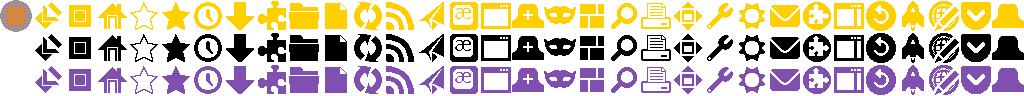
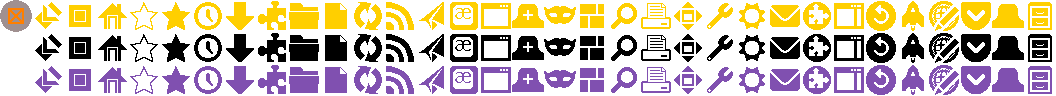
first part of syncing LCARStrek with Firefox 49/50 windows theme changes

diff --git a/LCARStrek/browser/browser.css b/LCARStrek/browser/browser.css
@@ -510,7 +510,7 @@ menuitem.bookmark-item {
           #preferences-button, #privatebrowsing-button, #save-page-button, #add-ons-button,
           #history-panelmenu, #nav-bar-overflow-button, #PanelUI-menu-button, #characterencoding-button,
           #email-link-button, #sidebar-button, #zoom-out-button, #zoom-reset-button, #zoom-in-button, #cut-button,
-          #copy-button, #paste-button, #e10s-button, #panic-button, #webide-button),
+          #copy-button, #paste-button, #e10s-button, #panic-button, #webide-button, #containers-panelmenu),
 #bookmarks-menu-button > .toolbarbutton-menubutton-dropmarker > .dropmarker-icon {
   list-style-image: url("chrome://browser/skin/ToolbarFx.png");
 }
@@ -649,6 +649,14 @@ menuitem.bookmark-item {
 
 #sync-button[cui-areatype="toolbar"]:hover {
   -moz-image-region: rect(18px, 792px, 36px, 774px);
+}
+
+#containers-panelmenu[cui-areatype="toolbar"] {
+  -moz-image-region: rect(0, 810px, 18px, 792px);
+}
+
+#containers-panelmenu[cui-areatype="toolbar"]:hover {
+  -moz-image-region: rect(18px, 810px, 36px, 792px);
 }
 
 #feed-button[cui-areatype="toolbar"] {
@@ -917,14 +925,14 @@ toolbaritem[sdkstylewidget="true"] > toolbarbutton,
           #preferences-button, #privatebrowsing-button, #save-page-button, #add-ons-button,
           #history-panelmenu, #nav-bar-overflow-button, #PanelUI-menu-button, #characterencoding-button,
           #email-link-button, #sidebar-button, #zoom-out-button, #zoom-reset-button, #zoom-in-button, #cut-button,
-          #copy-button, #paste-button, #e10s-button, #panic-button, #webide-button)[cui-areatype="menu-panel"],
+          #copy-button, #paste-button, #e10s-button, #panic-button, #webide-button, #containers-panelmenu)[cui-areatype="menu-panel"],
 toolbarpaletteitem[place="palette"] > :-moz-any(#back-button, #forward-button, #home-button, #print-button, #downloads-button, #bookmarks-menu-button,
           #new-tab-button, #new-window-button, #fullscreen-button, #sync-button, #feed-button, #tabview-button,
           #social-share-button, #open-file-button, #find-button, #developer-button,
           #preferences-button, #privatebrowsing-button, #save-page-button, #add-ons-button,
           #history-panelmenu, #nav-bar-overflow-button, #PanelUI-menu-button, #characterencoding-button,
           #email-link-button, #sidebar-button, #zoom-out-button, #zoom-reset-button, #zoom-in-button, #cut-button,
-          #copy-button, #paste-button, #e10s-button, #panic-button, #webide-button) {
+          #copy-button, #paste-button, #e10s-button, #panic-button, #webide-button, #containers-panelmenu) {
   list-style-image: var(--menupanel-list-style-image);
 }
 
@@ -1014,6 +1022,17 @@ toolbarpaletteitem[place="palette"] > #sync-button {
 #sync-button[cui-areatype="menu-panel"]:hover,
 toolbarpaletteitem[place="palette"] > #sync-button:hover {
   -moz-image-region: rect(32px, 1024px, 64px, 992px);
+}
+
+#containers-panelmenu[cui-areatype="menu-panel"],
+toolbarpaletteitem[place="palette"] > #containers-panelmenu {
+  -moz-image-region: rect(0px, 1056px, 32px, 1024px);
+}
+
+#containers-panelmenu[cui-areatype="menu-panel"]:hover,
+toolbarpaletteitem[place="palette"] > #containers-panelmenu:hover,
+#containers-panelmenu[cui-areatype="menu-panel"][panel-multiview-anchor=true] {
+  -moz-image-region: rect(32px, 1056px, 64px, 1024px);
 }
 
 #feed-button[cui-areatype="menu-panel"],
@@ -3004,31 +3023,6 @@ richlistitem[selected="true"][current="true"] > .ac-title-box > .ac-result-type-
 }
 
 /* End selected tab */
-
-/* User Context UI - change tab decoration depending on userContextId.
-   Defaults to gray for unknown usercontextids. */
-.tabbrowser-tab[usercontextid] {
-  background-image: linear-gradient(to right, transparent 20%, #A09090 30%, #A09090 70%, transparent 80%);
-  background-size: auto 2px;
-  background-repeat: no-repeat;
-}
-
-/* Personal User Context */
-.tabbrowser-tab[usercontextid="1"] {
-  background-image: linear-gradient(to right, transparent 20%, #9C9CFF 30%, #9C9CFF 70%, transparent 80%);
-}
-/* Work User Context */
-.tabbrowser-tab[usercontextid="2"] {
-  background-image: linear-gradient(to right, transparent 20%, #FF9F00 30%, #FF9F00 70%, transparent 80%);
-}
-/* Banking User Context */
-.tabbrowser-tab[usercontextid="3"] {
-  background-image: linear-gradient(to right, transparent 20%, #008484 30%, #008484 70%, transparent 80%);
-}
-/* Shopping User Context */
-.tabbrowser-tab[usercontextid="4"] {
-  background-image: linear-gradient(to right, transparent 20%, #E7ADE7 30%, #E7ADE7 70%, transparent 80%);
-}
 
 /* Tab pointer-events */
 /*
@@ -6073,77 +6067,3 @@ menugroup > .menuitem-iconic[disabled="true"] > .menu-iconic-left {
   padding: 0;
   overflow: hidden;
 }
-
-/* === BEGIN usercontext.inc.css === */
-
-/* User Context UI browser styles */
-
-#menu_newUserContextTabPersonal {
-  list-style-image: url("chrome://browser/skin/usercontext/personal.svg");
-}
-
-#menu_newUserContextTabWork {
-  list-style-image: url("chrome://browser/skin/usercontext/work.svg");
-}
-
-#menu_newUserContextTabBanking {
-  list-style-image: url("chrome://browser/skin/usercontext/banking.svg");
-}
-
-#menu_newUserContextTabShopping {
-  list-style-image: url("chrome://browser/skin/usercontext/shopping.svg");
-}
-
-/* URL Bar Decoration */
-
-#userContext-indicator {
-  height: 16px;
-  width: 16px;
-}
-
-#userContext-label {
-  margin-inline-end: 3px;
-  color: #A09090;
-}
-
-#userContext-icons:not([usercontextid]) {
-  display: none;
-}
-
-#userContext-icons {
-  -moz-box-align: center;
-}
-
-/* Personal User Context */
-#userContext-icons[usercontextid="1"] > #userContext-label {
-  color: #9C9CFF;
-}
-#userContext-icons[usercontextid="1"] > #userContext-indicator {
-  list-style-image: url("chrome://browser/skin/usercontext/personal.svg");
-}
-
-/* Work User Context */
-#userContext-icons[usercontextid="2"] > #userContext-label {
-  color: #FF9F00;
-}
-#userContext-icons[usercontextid="2"] > #userContext-indicator {
-  list-style-image: url("chrome://browser/skin/usercontext/work.svg");
-}
-
-/* Banking User Context */
-#userContext-icons[usercontextid="3"] > #userContext-label {
-  color: #008484;
-}
-#userContext-icons[usercontextid="3"] > #userContext-indicator {
-  list-style-image: url("chrome://browser/skin/usercontext/banking.svg");
-}
-
-/* Shopping User Context */
-#userContext-icons[usercontextid="4"] > #userContext-label {
-  color: #E7ADE7;
-}
-#userContext-icons[usercontextid="4"] > #userContext-indicator {
-  list-style-image: url("chrome://browser/skin/usercontext/shopping.svg");
-}
-
-/* === END usercontext.inc.css === */

diff --git a/LCARStrek/browser/syncedtabs/sidebar.css b/LCARStrek/browser/syncedtabs/sidebar.css
@@ -91,6 +91,24 @@ body {
   padding-inline-start: 20px;
 }
 
+.item.client.device-image-desktop.selected > .item-title-container > .item-icon-container {
+  background-image: url("chrome://browser/skin/sync-desktopIcon.svg#icon-inverted");
+}
+
+.item.client.device-image-desktop:not(.selected) > .item-title-container > .item-icon-container,
+.item.client.device-image-desktop.selected > .item-title-container > .item-icon-container:-moz-window-inactive {
+  background-image: url("chrome://browser/skin/sync-desktopIcon.svg#icon");
+}
+
+.item.client.device-image-mobile.selected > .item-title-container > .item-icon-container {
+  background-image: url("chrome://browser/skin/sync-mobileIcon.svg#icon-inverted");
+}
+
+.item.client.device-image-mobile:not(.selected) > .item-title-container > .item-icon-container,
+.item.client.device-image-mobile.selected > .item-title-container > .item-icon-container:-moz-window-inactive {
+  background-image: url("chrome://browser/skin/sync-mobileIcon.svg#icon");
+}
+
 .item.tab > .item-title-container > .item-icon-container {
   background-image: url("chrome://mozapps/skin/places/defaultFavicon.png");
 }
@@ -128,6 +146,7 @@ body {
   text-overflow: ellipsis;
   margin: 0px;
   line-height: 1.3;
+  cursor: default;
 }
 
 .item[hidden] {
@@ -313,7 +332,7 @@ html {
   background-repeat: no-repeat;
   background-position: center;
   padding-top: 5px;
-  width: 9px; /* The image's width is 9 pixels */
+  max-width: 9px; /* The image's width is 9 pixels */
   height: 9px;
 }
 

diff --git a/LCARStrek/browser/aboutSyncTabs.css b/LCARStrek/browser/aboutSyncTabs.css
@@ -55,10 +55,10 @@ richlistitem[type="client"] {
   -moz-user-focus: ignore !important;
 }
 richlistitem.mobile[type="client"] {
-  list-style-image: url("chrome://browser/skin/sync-mobileIcon.png");
+  list-style-image: url("chrome://browser/skin/sync-mobileIcon.svg#icon");
 }
 richlistitem.desktop[type="client"] {
-  list-style-image: url("chrome://browser/skin/sync-desktopIcon.png");
+  list-style-image: url("chrome://browser/skin/sync-desktopIcon.svg#icon");
 }
 
 .title,

diff --git a/LCARStrek/browser/preferences/in-content/preferences.css b/LCARStrek/browser/preferences/in-content/preferences.css
@@ -322,7 +322,7 @@ description > html|a {
 #weavePrefsDeck > #needsUpdate > hbox > #loginError,
 #weavePrefsDeck > #hasFxaAccount > vbox > label,
 #weavePrefsDeck > #hasFxaAccount > hbox:not(#tosPP-normal) > label {
-  /* no margin-start for elements at the begin of a line */
+  /* no margin-inline-start for elements at the begin of a line */
   margin-inline-start: 0;
 }
 
